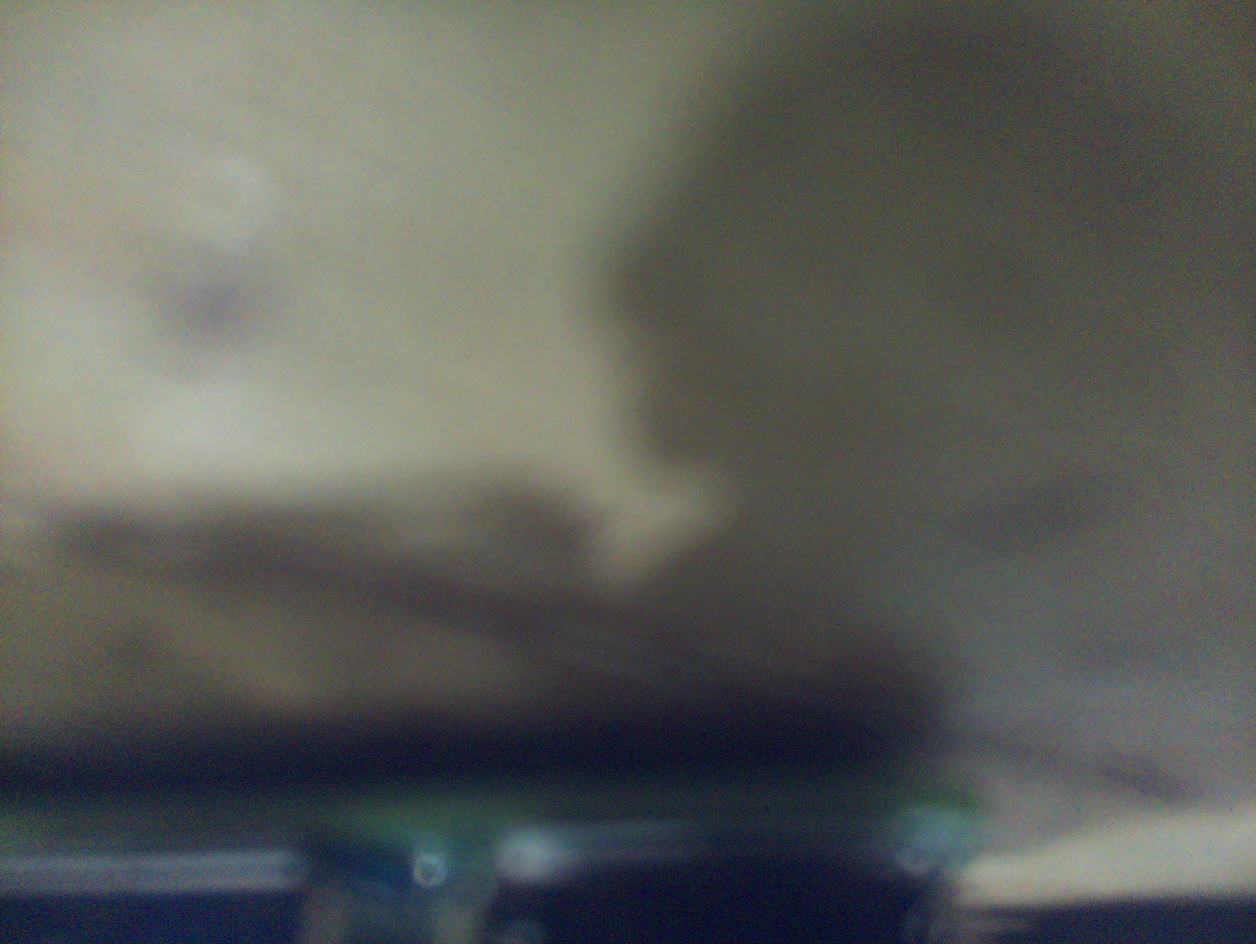
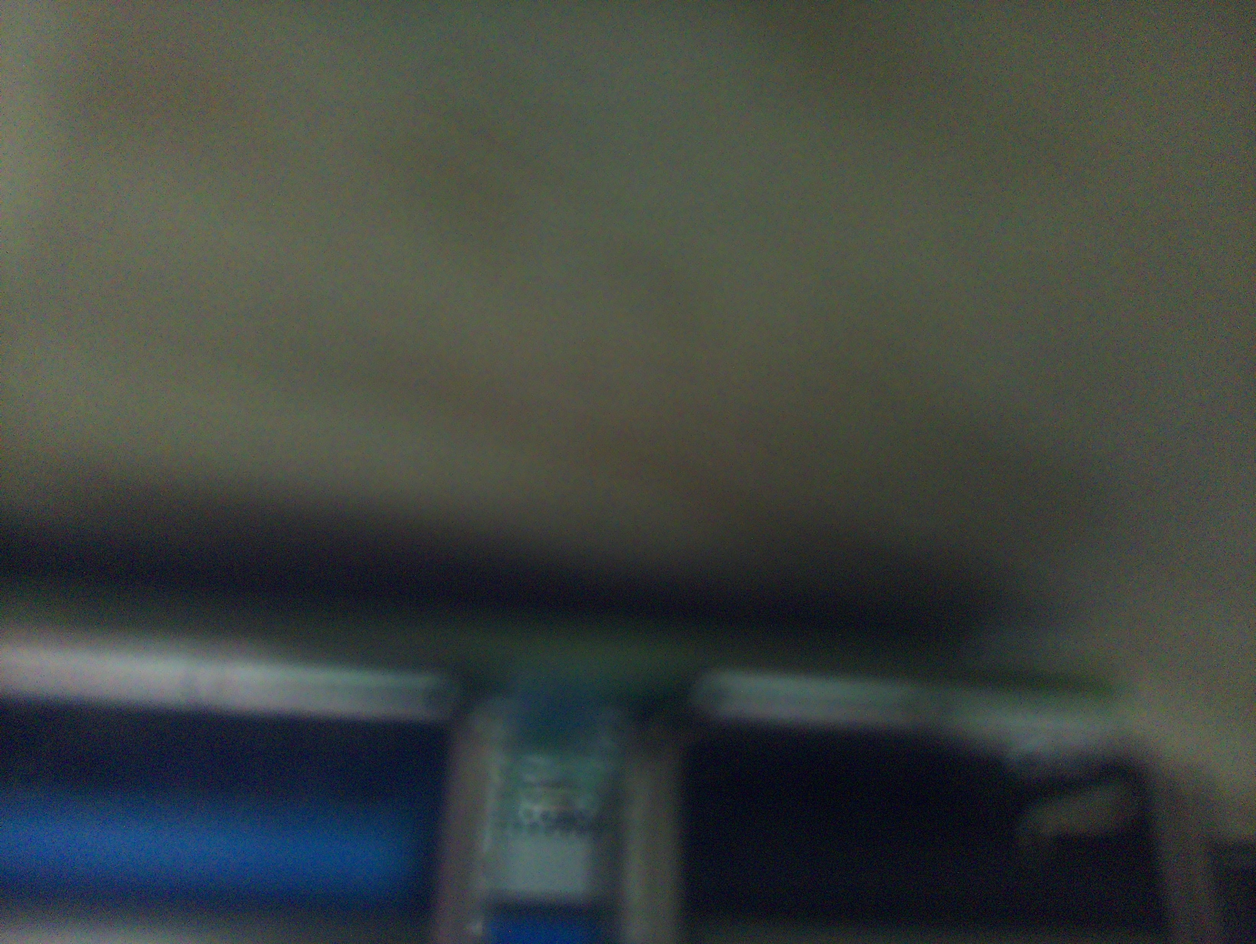
sends frame test

diff --git a/raspberryPi/main.py b/raspberryPi/main.py
@@ -101,9 +101,9 @@ def test_send():
     # c = CameraController.get_instance()
     # c.start_camera()
     # frame = c.get_next_frame()
-    # # Convert the frame to a JSON string
+    # # # Convert the frame to a JSON string
     # frame_json = json.dumps(frame.tolist())
-
+    # print("gggg")
     # # Convert the frame to binary data
     # frame_bytes = frame.tobytes()
 
@@ -112,17 +112,24 @@ def test_send():
     # payload = {
     #     'frame': frame_json
     # }
+    image_path = 'test1.jpg'
+    frame = cv2.imread(image_path)
+    print(type(frame))
+    print(frame.shape)
+    print(len(list(frame.tobytes())))
+    # frame_json = json.dumps(frame.tolist())
+    print("gggg")
 
     # If using binary data
     payload = {
-        'data': 'data'
+        'data': list(frame.tobytes())
     }
     json_data = json.dumps(payload)
 
     # Step 4: Send the POST request to the server
     url = 'http://192.168.1.13:5050/send_ride_test'
     headers = {'Content-Type': 'application/json'}
-    response = requests.post(url, data=json_data, headers=headers)
+    response = requests.post(url, data=json_data,headers=headers)
 
     # Step 5: Check the response from the server
     if response.status_code == 200:
